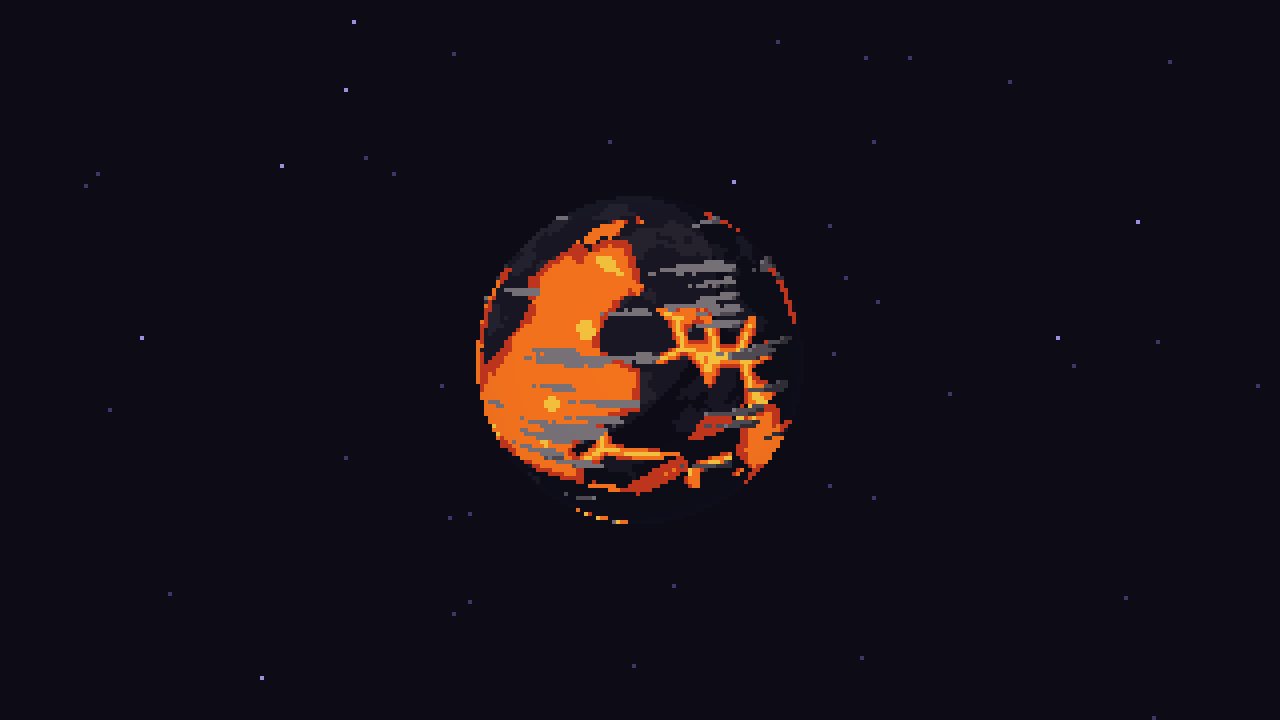
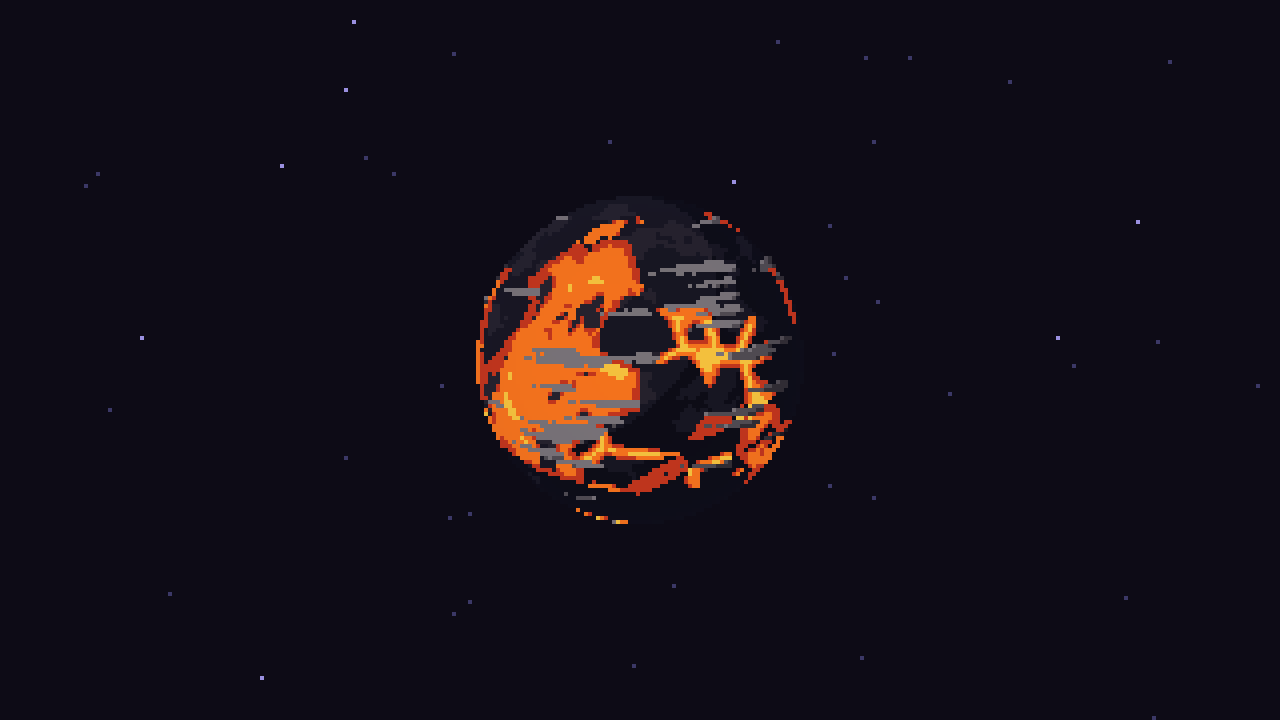
feat(mockup): animated lava (domain-warped FBM), static / flow / full-warp
Lava gets a loop-locked, domain-warped FBM (Quilez: two warp passes, then a
3-octave FBM), whose warp inputs ride circles in noise space (cos/sin of the
lava angle, one cycle per surface turn), so molten rock churns and the 24 s
loop stays seamless. Values map through the lava ramps in bands, with cuts on
measured field quantiles.

Viewer toggle "lava":
- static: the previous lava, pixel-identical.
- flow (default): crust, crack and pool geometry stay static (ash placement
  and CPU/GPU parity untouched); pools churn (dark skins, cooler swirls,
  orange, yellow hot cores) and the field slides fissure cores so bright
  pulses course along the cracks.
- full-warp: the whole surface from the field (crust, rim, orange, yellow),
  for comparison.

Yellow share of glow pixels: static 7.8%, flow 8.6%, full-warp 9.8%. The
field is evaluated once per fragment in main(), not in surface() (inlined at
every artefact resample), to keep SwiftShader compile time down; viewer
startup is still ~1.5 s slower, so openViewer's ready timeout goes from 15 s
to 60 s and it closes the browser on failure (a timeout used to hang the
test process). test/lava-flow.test.mjs guards the seam, yellow share, 1 px
shimmer and non-empty output. Adds lava-flow.gif, lava-fullwarp.gif and
lava-modes.png; re-renders lava tiles, the system shot, the depth GIFs and
artefacts.png.

diff --git a/mockups/asset-viewer/viewer.js b/mockups/asset-viewer/viewer.js
@@ -347,6 +347,23 @@ function poolCut({ freq, pool }, off) {
   }
   return vals.sort((a, b) => b - a)[Math.round(pool.share * N)];
 }
+// Animated lava (LAVA_MODES, viewer control). 'static' is the still crust, cracks and pools;
+// 'flow' (default) keeps that geometry (so ash placement and the CPU ports still match) and
+// animates the molten fill of pools and fissures with a domain-warped FBM; 'full-warp' paints
+// the whole surface from the warped FBM (classic Quilez look), for comparison. The field is
+// loop-locked: its warp inputs ride circles in noise space, `cycles` times per surface turn.
+//   freq   base frequency on the unit sphere (top octave ~4x: features stay >= 2-3 px at 180p)
+//   warp   warp strength (noise units) of each of the two passes
+//   drift  radius of the warp inputs' circles (how far the flow moves per cycle)
+//   pool   flow-mode pool fill cuts on the field: below [0] a dark cooling skin, below [1] the
+//          cooler rim colour, below [2] orange, above it yellow (accents only)
+//   crack  how far the field shifts a fissure pixel's core position (bright pulses course along)
+//   full   full-warp cuts: crust below [0] (its top 0.05 a light step up), rim below [1], orange
+//          below [3] ([2] unused), yellow above
+// The field's quantiles (debug probe, 4 seeds x 6 phases): 10% 0.337, 30% 0.431, 50% 0.498,
+// 70% 0.565, 90% 0.655, 95% 0.690.
+export const LAVA_MODES = ['static', 'flow', 'full-warp'];
+const LAVA_FLOW = { freq: 1.2, warp: 1.0, drift: 0.5, cycles: 1, pool: [0.337, 0.38, 0.665], crack: 0.9, full: [0.467, 0.513, 0.6, 0.683] }; // cuts ~ field quantiles: pool 10/17/91%, full 40/55/94%
 const WORLEY_GLSL = /* glsl */ `
   vec3 hash33(vec3 p) { p = fract(p * vec3(0.1031, 0.1030, 0.0973)); p += dot(p, p.yxz + 33.33); return fract((p.xxy + p.yxx) * p.zyx); }
   // Integer cell hash (pcg3d), bit-exact on the CPU, unlike the float hash33 (whose large
@@ -399,6 +416,26 @@ const WORLEY_GLSL = /* glsl */ `
   const float ICE_CRACK_FREQ = ${CRACKS.ice.freq.toFixed(2)}, ICE_CRACK_CUT = ${CRACKS.ice.cut.toFixed(2)};
   const float LAVA_POOL_SCALE = ${CRACKS.lava.pool.scale.toFixed(3)}, ICE_POOL_SCALE = ${CRACKS.ice.pool.scale.toFixed(3)};
 `;
+// Loop-locked domain-warped FBM (Inigo Quilez, "warp"): f(p + w * r), r = fbm(p + w * q + drift(t)),
+// q = fbm(p + drift(t)), with each pass's input riding its own circle (uLavaTime = cos, sin of the
+// lava angle), so the molten rock swirls and churns and returns to itself every cycle. 0..1, ~0.5 mean.
+const LAVA_GLSL = /* glsl */ `
+  uniform int uLavaMode;  // LAVA_MODES index
+  uniform vec2 uLavaTime; // cos, sin of the loop-locked lava angle
+  float fbmL(vec3 p, int oct) {
+    float s = 0.0, a = 0.5, n = 0.0;
+    for (int i = 0; i < 3; i++) { if (i >= oct) break; s += a * snoise(p); n += a; p = p * 2.03 + 11.7; a *= 0.5; }
+    return s / n * 0.5 + 0.5;
+  }
+  vec3 fbm3v(vec3 p) { return vec3(snoise(p), snoise(p + vec3(5.2, 1.3, 2.8)), snoise(p + vec3(1.7, 9.2, 4.1))) * 0.5; } // warp vectors: one octave each (compile cost)
+  float lavaFlow(vec3 p) {
+    const float D = ${LAVA_FLOW.drift.toFixed(3)}, W = ${LAVA_FLOW.warp.toFixed(3)};
+    vec3 a = p * ${LAVA_FLOW.freq.toFixed(3)} + uSeedOff.zxy;
+    vec3 q = fbm3v(a + vec3(uLavaTime * D, 0.0));
+    vec3 r = fbm3v(a + W * q + vec3(8.3, 2.8, 1.1) + vec3(0.0, uLavaTime.yx * D));
+    return fbmL(a + W * r, 3);
+  }
+`;
 
 // Biome surfaces (art-direction: biome = module health). All flat light bands from
 // palette ramps; lava fissures (and toxic veins) are emissive and ignore lighting.
@@ -424,6 +461,7 @@ const PLANET_FRAG = /* glsl */ `
   in vec3 vPosW;
 
   ${WORLEY_GLSL}
+  ${LAVA_GLSL}
   // Worley F1 distance plus a random id for the nearest cell.
   vec2 worley(vec3 p) {
     vec3 i = floor(p), f = fract(p);
@@ -463,6 +501,10 @@ const PLANET_FRAG = /* glsl */ `
   }
   // Region of the last surface() sample, for the regions debug view: 0 ground, 1 crack, 2 open (pool / water).
   int gRegion = 0;
+  // The animated lava field at this fragment. lavaFlow() is evaluated once per fragment in main(),
+  // not in surface(): surface() is inlined at every artefact resample, and each copy of the warped
+  // FBM costs seconds of shader compile in SwiftShader.
+  float gLavaV = 0.5;
 
   // Craters: sparse cells get a dark floor and a bright rim.
   vec3 craters(vec3 p, vec3 c, int b, float scale, float density) {
@@ -521,19 +563,38 @@ const PLANET_FRAG = /* glsl */ `
       float h = fbm(p * 2.4 + uSeedOff);
       c = uA[min(b, 2) + (h > 0.58 ? 1 : 0)]; // crust stays in the darkest steps
       vec3 own, across;
-      float dpx = plates(p, LAVA_CRACK_FREQ, uSeedOff, own, across);
-      if (poolField(own, uSeedOff, LAVA_POOL_SCALE) > uPoolCut) {
+      float dpx = 9.0, w = 0.0;
+      bool pool = false, shore = false, fissure = false;
+      if (uLavaMode != 2) {
+        dpx = plates(p, LAVA_CRACK_FREQ, uSeedOff, own, across);
+        pool = poolField(own, uSeedOff, LAVA_POOL_SCALE) > uPoolCut;
+        shore = poolField(across, uSeedOff, LAVA_POOL_SCALE) <= uPoolCut; // the edge here faces solid crust
+        // no crack along a shore: the pool's rim marks that edge (a clipped half-crack is a 1 px sliver)
+        if (!pool) { w = crackWidth(p, LAVA_CRACK_FREQ, uSeedOff, LAVA_CRACK_CUT, 1.5); fissure = dpx < w && shore; }
+      }
+      bool rim = pool && shore && dpx < 1.5;
+      float v = gLavaV; // the warped field at this fragment (set once in main(); artefact resamples reuse it)
+      if (uLavaMode == 2) {
+        // full-warp: the whole surface is the warped field, banded crust -> rim -> orange -> yellow
+        const vec4 F = vec4(${LAVA_FLOW.full.map((x) => x.toFixed(3)).join(', ')});
+        if (v < F.x) c = uA[min(b, 2) + (v > F.x - 0.05 ? 1 : 0)];
+        else { gRegion = 2; c = v < F.y ? uG[0] : v < F.w ? uG[1] : uG[2]; }
+      } else if (pool) {
         // open molten pool where the crust broke away: orange, a cooler rim at the shore, and
         // yellow only on the hottest cores, away from the shore
         gRegion = 2;
-        bool shore = poolField(across, uSeedOff, LAVA_POOL_SCALE) <= uPoolCut;
-        c = shore && dpx < 1.5 ? uG[0] : uG[1];
-        if ((!shore || dpx > 4.0) && snoise(p * 3.5 + uSeedOff.yzx) > 0.6) c = uG[2];
-      } else {
-        // emissive jagged fissures: orange, darker glowing edges, yellow only down the core of the widest
-        float w = crackWidth(p, LAVA_CRACK_FREQ, uSeedOff, LAVA_CRACK_CUT, 1.5);
-        // no crack along a shore: the pool's rim marks that edge (a clipped half-crack is a 1 px sliver)
-        if (dpx < w && poolField(across, uSeedOff, LAVA_POOL_SCALE) <= uPoolCut) { gRegion = 1; c = dpx < w * 0.25 && w > 1.4 ? uG[2] : dpx < w * 0.7 ? uG[1] : uG[0]; }
+        c = rim ? uG[0] : uG[1];
+        if (uLavaMode == 1) {
+          // flow: the warped field churns the fill (dark cooling skins, cooler swirls, yellow hot cores)
+          const vec3 P = vec3(${LAVA_FLOW.pool.map((x) => x.toFixed(3)).join(', ')});
+          if (!rim) c = v < P.x ? uA[min(b, 2) + 1] : v < P.y ? uG[0] : v < P.z ? uG[1] : uG[2];
+        } else if ((!shore || dpx > 4.0) && snoise(p * 3.5 + uSeedOff.yzx) > 0.6) c = uG[2];
+      } else if (fissure) {
+        // emissive jagged fissures: orange, darker glowing edges, yellow only down the core of the widest;
+        // in flow mode the field slides the core position, so bright pulses course along the fissure
+        gRegion = 1;
+        float k = dpx / w - (v - 0.5) * ${LAVA_FLOW.crack.toFixed(3)};
+        c = k < 0.25 && w > 1.4 ? uG[2] : k < 0.7 ? uG[1] : uG[0];
       }
     } else {
       // gas giant: turbulent alternating bands and a storm
@@ -552,6 +613,7 @@ const PLANET_FRAG = /* glsl */ `
   void main() {
     vec3 p = normalize(vLocal);
     setScreenScale(p);
+    if (uBiome == 4 && uLavaMode != 0) gLavaV = lavaFlow(p); // uniform branch: free on other biomes
     int b = band(normalize(vNormalW));
     gl_FragColor = vec4(artefacts(p, b, surface(p, b)), 1.0);
     if (uRegions == 1) { gl_FragColor = vec4(gRegion == 1 ? 1.0 : 0.0, gRegion == 2 ? 1.0 : 0.0, gRegion == 0 ? 1.0 : 0.0, 1.0); return; } // debug: ground / crack / open
@@ -824,7 +886,7 @@ function makePlanet() {
     uSeedOff: { value: new THREE.Vector3() }, uSea: { value: 0.5 }, uPoolCut: { value: 9 }, uRegions: { value: 0 },
     uBands: { value: new THREE.Vector3(0.2, 0.58, 0.86) }, // lit directional terminator, crescent bands
     // artefacts (artefacts.js): off while uArtN = 0
-    uArtN: { value: 0 }, uArtTick: { value: 0 }, uArtTeal: { value: 0 }, uArtDebug: { value: 0 }, uArtTealC: { value: new THREE.Color(ACCENTS.reveal[3]) }, // [OIII] teal, garnish only
+    uArtN: { value: 0 }, uArtTick: { value: 0 }, uArtTeal: { value: 0 }, uArtDebug: { value: 0 }, uLavaMode: { value: 1 }, uLavaTime: { value: new THREE.Vector2(1, 0) }, uArtTealC: { value: new THREE.Color(ACCENTS.reveal[3]) }, // [OIII] teal, garnish only
     uArtSec: { value: Array.from({ length: MAX_ART }, () => new THREE.Vector4(0, 0, 1, 4)) }, uViewSize: VIEW_SIZE,
   });
   const spin = new THREE.Group(); // the surface turns surfaceTurns per loop
@@ -1106,6 +1168,8 @@ function makePlanet() {
     const turn = phase * Math.PI * 2 * LOOP.surfaceTurns; // whole surface turns per loop
     spin.rotation.y = -turn; // right -> left
     sky.rotation.y = -phase * Math.PI * 2 * LOOP.cloudTurns; // clouds drift ahead of the ground
+    const lavaAngle = turn * LAVA_FLOW.cycles; // whole cycles per surface turn: loop-locked
+    surfaceMat.uniforms.uLavaTime.value.set(Math.cos(lavaAngle), Math.sin(lavaAngle));
     const ticks = ART_TICKS * LOOP.surfaceTurns;
     surfaceMat.uniforms.uArtTick.value = Math.floor(phase * ticks + 1e-6) % ticks; // glitches re-roll on loop-locked ticks
     artUpdate();
@@ -1125,7 +1189,8 @@ function makePlanet() {
   }
   // artefacts: 0 = off, 1..5 = that many sectors, 'auto' = by planet size (artefactCount).
   let artefactsOpt = 0;
-  function setExtras({ moons = false, halo: showHalo = false, artefacts = 0, teal = false, cloudShadow = true, regions = false, artDebug = false } = {}) {
+  function setExtras({ moons = false, halo: showHalo = false, artefacts = 0, teal = false, cloudShadow = true, regions = false, artDebug = false, lavaMode = 'flow' } = {}) {
+    surfaceMat.uniforms.uLavaMode.value = Math.max(0, LAVA_MODES.indexOf(lavaMode));
     surfaceMat.uniforms.uRegions.value = regions ? 1 : 0;
     surfaceMat.uniforms.uArtDebug.value = artDebug ? 1 : 0;
     for (const m of MOONS) m.mesh.visible = moons;
@@ -1522,6 +1587,7 @@ const state = {
   artefacts: false, artAuto: true, artCount: 3, artTeal: false, // planet artefacts (artefacts.js); artAuto: sector count by planet size
   cover: null, // cloud-cover override (0..1) for the hero planets; null = the biome's WEATHER cover
   regions: false, // debug (measurement only): planet surfaces as ground / crack / open-plate colours
+  lavaMode: 'flow', // LAVA_MODES: static, flow (default), full-warp
   artDebug: false, // debug (measurement only): artefact cells as cell-index colours (artefacts.js uArtDebug)
 };
 
@@ -1562,7 +1628,7 @@ function applyState() {
   LOOP.period = Math.max(1, state.period);
   LOOP.surfaceTurns = Math.max(1, Math.round(state.surfaceTurns));
   LOOP.cloudTurns = Math.max(0, Math.round(state.cloudTurns));
-  const art = { artefacts: !state.artefacts ? 0 : state.artAuto ? 'auto' : state.artCount, teal: state.artTeal, cloudShadow: state.cloudShadow, regions: state.regions, artDebug: state.artDebug };
+  const art = { artefacts: !state.artefacts ? 0 : state.artAuto ? 'auto' : state.artCount, teal: state.artTeal, cloudShadow: state.cloudShadow, regions: state.regions, artDebug: state.artDebug, lavaMode: state.lavaMode };
   document.getElementById('art-auto').checked = state.artAuto;
   planets.forEach((p, i) => p.setExtras({ moons: i === 0 && state.moons, halo: state.halo, ...art }));
   SYSTEM.forEach((p, i) => p.setExtras({ moons: i === 0 && state.moons, halo: state.halo, ...art }));
@@ -1664,6 +1730,9 @@ function bindUi() {
   for (const m of DEPTH_MODES) $('depth-mode').add(new Option(m, m));
   $('depth-mode').value = state.depthMode;
   $('depth-mode').addEventListener('change', (e) => { state.depthMode = e.target.value; applyState(); });
+  for (const m of LAVA_MODES) $('lava-mode').add(new Option(m, m));
+  $('lava-mode').value = state.lavaMode;
+  $('lava-mode').addEventListener('change', (e) => { state.lavaMode = e.target.value; applyState(); });
   for (const b of Object.keys(DEPTH_BANDS)) $('depth-bands').add(new Option(b, b));
   $('depth-bands').value = state.depthBands;
   $('depth-bands').addEventListener('change', (e) => { state.depthBands = e.target.value; applyState(); });

diff --git a/mockups/asset-viewer/index.html b/mockups/asset-viewer/index.html
@@ -41,6 +41,7 @@
     <label>depth fade <input id="depth" type="checkbox" checked></label>
     <label>depth mode <select id="depth-mode"></select></label>
     <label>depth bands <select id="depth-bands"></select></label>
+    <label>lava <select id="lava-mode"></select></label>
     <label>rotate <input id="spin" type="checkbox" checked></label>
     <label>moons <input id="moons" type="checkbox" checked></label>
     <label>dark halo <input id="halo" type="checkbox"></label>

diff --git a/mockups/asset-viewer/README.md b/mockups/asset-viewer/README.md
@@ -12,7 +12,7 @@ npm run dev      # http://127.0.0.1:5180/  (loopback only; PORT=... to change)
 npm run shots    # re-capture screenshots/ in headless Chromium (no server, no network)
 npm run palettes # 25 Lospec-palette renders + labelled contact sheet in screenshots/palettes/
 npm run planets  # variety sheet, system shot, hero-loop.gif, artefacts-loop.gif, cloud-drift-24s/36s.gif, colour counts + loop-seam tests
-npm test         # cloud regression tests: puff handedness (det > 0), hollow-ring renders (32 framings + 12 hero-loop frames; LOOP_FRAMES=48 for all), shading direction (follows the mass dome), CPU/GPU simplex, Voronoi-cell and pool-field parity; artefacts: off = pixel-identical, on = visible, deterministic, loop-locked, 3–10 cells across a sector at any zoom; cloud shadow: no phantoms, drifts with the clouds; depth: object mode unchanged, pixel-stepped splits a straddling planet; lava/ice line width ≥ 2 px and a ground / crack / open mix; rings: width × distance sweep (chunky share, bounds, density, moons), front arc over the disc, 1 px dust, loop-locked
+npm test         # cloud regression tests: puff handedness (det > 0), hollow-ring renders (32 framings + 12 hero-loop frames; LOOP_FRAMES=48 for all), shading direction (follows the mass dome), CPU/GPU simplex, Voronoi-cell and pool-field parity; artefacts: off = pixel-identical, on = visible, deterministic, loop-locked, 3–10 cells across a sector at any zoom; cloud shadow: no phantoms, drifts with the clouds; depth: object mode unchanged, pixel-stepped splits a straddling planet; lava/ice line width ≥ 2 px and a ground / crack / open mix; animated lava: seamless loop, yellow 5–15% of glow, no 1 px shimmer; rings: width × distance sweep (chunky share, bounds, density, moons), front arc over the disc, 1 px dust, loop-locked
 ```
 
 `node shots.mjs depth-scene crew-closeup` captures just the named shots.
@@ -35,6 +35,7 @@ npm test         # cloud regression tests: puff handedness (det > 0), hollow-rin
 | depth fade | Turns depth darkening on or off |
 | depth mode | `pixel-smooth` (default: a continuous per-pixel fade), `pixel-stepped` (per-pixel levels with crisp edges), `object` (the original whole-object fade) or `levels` (debug colours per level) |
 | depth bands | Band preset for `pixel-stepped`: `3-band` (the original thresholds), `6-band`, `8-band` |
+| lava | Animated lava (`LAVA_MODES`): `static` (the still crust, cracks and pools), **`flow`** (default: the same geometry, with the molten fill of pools and fissures churning), `full-warp` (the whole surface is the warped field, classic look, for comparison) |
 | rotate | Pauses or resumes planet and cloud spin |
 | moons | Two small orbiting moons on the hero planet |
 | dark halo | Optional teal-GIF look: a ~2 px bg+1 halo around planets (off by default) |
@@ -126,6 +127,8 @@ Each biome is a branch of one planet shader. Its ramps are re-keyed per biome (`
 
 The haze is a 1.06× shell drawn only as a thin crescent on the lit limb, so it reads as atmosphere rather than an outline. Ash and spore puffs reuse the cloud system with their own ramp, cover and lift. Lava ash reads the surface shader's own fissure and pool fields on the CPU (`snoise.js`: ports of the GLSL simplex noise, the integer cell hash, the Voronoi cells and the pool field; `npm test` checks them against the GPU), so smoke only rises from the glowing fissures and pool shores of a few active regions, as short, flat plumes trailing east.
 
+**Animated lava** (`LAVA_FLOW`, `lavaFlow()` in the planet shader): a domain-warped FBM after Íñigo Quílez, `f(p + w·r)` with `r = noise(p + w·q + drift)` and `q = noise(p + drift)`, two warp passes and a 3-octave FBM on top. Each pass's input rides its own circle in noise space (`uLavaTime` = cos, sin of the lava angle, one cycle per surface turn), so the rock swirls, churns and returns to itself: the loop is seamless. The value is mapped through the lava ramps in **bands**, never a gradient. The cuts sit on the field's measured quantiles. In `flow` (default) the crust plates, crack and pool **geometry stay static**, so ash placement and the CPU/GPU parity tests are untouched. Only the molten fill moves: pools get dark cooling skins (10%), cooler swirls, orange and yellow hot cores (top 9%), and the field slides each fissure pixel's core position, so bright pulses course along the cracks. `full-warp` paints crust (40%), rim, orange and yellow (top 6%) from the field alone and ignores the cracks and pools (ash still follows the hidden fissure field there). The field is evaluated once per fragment in `main()`, not inside `surface()`, because `surface()` is inlined at every artefact resample and each copy of the warped FBM adds seconds of SwiftShader compile time. `static` is pixel-identical to the previous lava. `node debug/measure-lava-flow.mjs` reports glow shares, 1 px speckle, the loop seam and the frame cost per mode; `npm test` (`test/lava-flow.test.mjs`) guards them.
+
 **Fissures and crevasses** (`plates()` and `crackWidth()` in the planet shader, `CRACKS` for frequency and mask cut): Voronoi cell edges, i.e. straight segments that meet at pointed junctions, using the exact distance to the cell edge. A low-frequency mask picks which edges show and how wide, so cracks branch and taper to ~1 px tips, then stop rather than breaking into dots. Width is in **screen pixels** (lava up to ~3 px, ice ~2.4 px), worked out from the fragment's screen derivatives, so lines stay bold at any size; small planets raise the mask cut, so they show fewer cracks rather than solid fissure. Median line width at 180p (`node debug/measure-line-width.mjs`, guarded by `npm test`) went from 1 px (16–27% isolated pixels on lava, 50–62% on ice) to 4–5 px on lava and 3–4 px on ice, with ≤ 1.5% isolated pixels.
 
 **Lava pools and ice water** (`poolField()` in the planet shader, `CRACKS.*.pool`): whole Voronoi plates of the crack network are open, where the crust or the ice sheet has broken away, so shores are the same straight, jagged edges as the cracks. A low-frequency field over the plates (`scale`, in cells) clusters them into lakes and seas, and a per-plate jitter adds lone pools. The open share of the whole sphere is a **quantile** per seed (`share`: lava 30%, ice 27%; `poolCut()` samples the CPU port), like cloud cover. A crack never runs along a shore (the shore band marks that edge instead), so there are no clipped 1 px slivers. `node debug/measure-line-width.mjs` classifies pixels with the shader's regions debug view (`viewer.set({ regions: true })`: ground blue, crack red, open green); `npm test` also guards the mix (ground ≥ 40%, cracks ≥ 3%, open 10–55%). Averaged over a turn (6 phases) at S/M/L, ground / cracks / open are 58 / 9–12 / 30–33% on lava and 56–63 / 11–16 / 26–27% on ice; a single face ranges from 14% to 51% open.
@@ -204,6 +207,8 @@ Every tile is the same shot: the `depth` view (crew in front, hero planet, then 
 | `screenshots/palettes/contact-sheet.png` | The 25 palettes, 5×5, numbered and labelled; `NN-<slug>.png` are the full-size frames |
 | `screenshots/rings-sheet.png` | Ring width (rows: thread 0.04, default 0.22, wide belt 0.72) × distance (columns: 1.25 hugging, 1.69 default, 2.6 far) on the lush hero with moons; the centre tile is the default |
 | `screenshots/planets/variety-sheet.png` | Every biome (and extra) × 3 seeds in the final palette, S/M/L/XL sizes, rings as a modifier; `planets/<biome>-<seed>.png` are the full frames |
+| `screenshots/lava-modes.png` | The lava hero (seed 11) in static, flow and full-warp at t = 3 s and 9 s |
+| `screenshots/planets/lava-flow.gif`, `lava-fullwarp.gif` | One 24 s loop of the lava hero (moons, ash) at 15 fps in the flow and full-warp modes |
 | `screenshots/planets/hero-loop.gif` | 24 s seamless loop of the lush hero planet with moons and ring (surface 2 turns, clouds 3) |
 | `screenshots/planets/cloud-drift-24s.gif`, `cloud-drift-36s.gif` | The two cloud-drift options: 24 s at 2:3 (default) and 36 s at 3:4, 15 fps |
 | `screenshots/clouds-blend-before-after.png` | Cloud close-up before (separate puffs on the surface, at 34bf42b) and after (floating, overlapping, mass-shaded clumps) |
